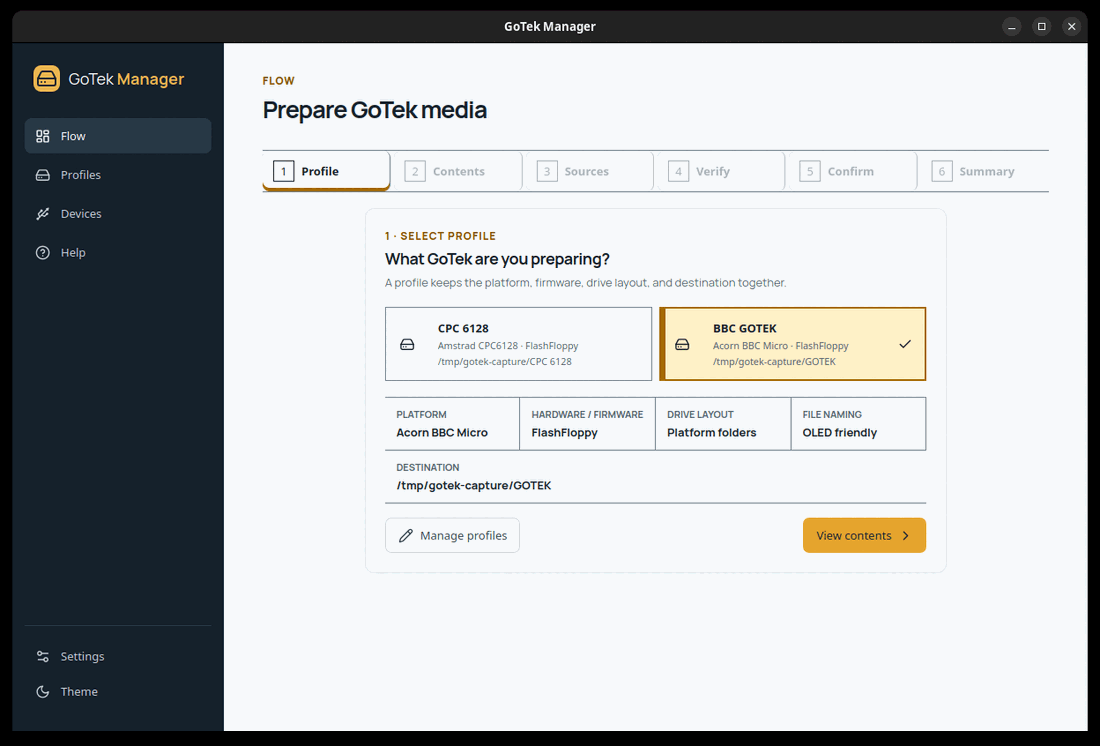
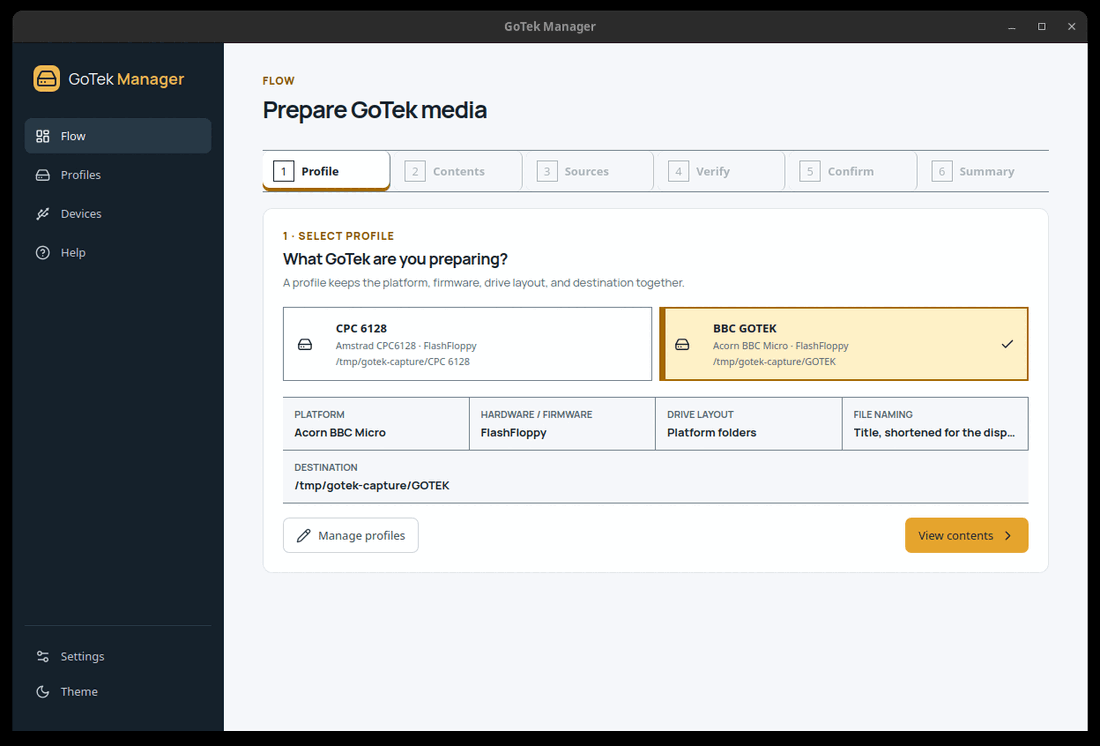
Document the scan, the naming, and re-photograph the screens
The release notes gain a 0.5.0 section covering the scan of every source,
the rules that keep a disc set whole and pick one copy of a title, the
naming change, the categories a collection's own folders now answer, and
the folder names a destination keeps. It says what upgrading does, as
each version's notes do: the library moves to schema 5 in place, and a
profile written by an older version arrives with no folder names of its
own.

The README's naming line said two rules when there are now three, and the
help page described OLED naming as the only alternative to the original
filename. Both now say what the three rules do and what a written name
keeps. Help also gained an entry for filling a stick from a whole
collection, and its answer on categories says that a folder named after a
collection's catalogue reads and that a bracketed demo is a build rather
than a demoscene production.

TODO records the two questions the collection cannot answer for us: a
disc marker on a file that says "Disk 1" and has no siblings, and a title
whose real name carries brackets.

The help screenshots are re-photographed in both palettes, which is what
caught the sidebar actions sitting side by side: the column is too narrow
for two labelled buttons, and "Add location" ran out of its own button
across its neighbour. They are stacked again, which the scrolling column
can now afford, and the scan is "Scan all sources" so the label says what
it does at full width.

diff --git a/src/styles.css b/src/styles.css
@@ -61,7 +61,7 @@ button[aria-pressed="true"]{box-shadow:inset 0 -4px 0 #a46800;background:#fff1c7
 .app.dark button[aria-pressed="true"]{box-shadow:inset 0 -4px 0 #f2b84a;background:#45391f;color:#fff}
 @media(prefers-color-scheme:dark){.app.system-theme button[aria-pressed="true"]{box-shadow:inset 0 -4px 0 #f2b84a;background:#45391f;color:#fff}}
 @media(prefers-reduced-motion:reduce){button:not(:disabled){transition:none}}
-.library-sidebar{overflow:hidden}.library-sidebar .profile{flex:1 1 auto;min-height:0;overflow:auto}.library-sidebar>.button,.library-sidebar>.sidebar-actions{flex:none;margin-top:10px}.library-sidebar>.source-status{flex:none}.sidebar-actions{display:grid;grid-template-columns:1fr 1fr;gap:6px}.sidebar-actions .button{margin-top:0;min-width:0;padding:0 10px;white-space:nowrap}.sidebar-actions .button svg{flex:none}
+.library-sidebar{overflow:hidden}.library-sidebar .profile{flex:1 1 auto;min-height:0;overflow:auto}.library-sidebar>.button{flex:none;margin-top:10px}.library-sidebar>.source-status{flex:none}
 @media(prefers-color-scheme:dark){}
 
 .destination-browser-bar{display:flex;align-items:center;justify-content:space-between;gap:12px;padding:11px 0;border-bottom:1px solid var(--a11y-border)}.destination-browser-bar b,.destination-browser-bar span{display:block}.destination-browser-bar span{max-width:min(680px,70vw);overflow:hidden;text-overflow:ellipsis;white-space:nowrap;color:var(--a11y-muted);font:12px 'DM Mono',monospace}.destination-browser-bar .inline-actions{display:flex;flex:none;gap:5px}.destination-browser tr.clickable{cursor:pointer}.destination-browser tr.clickable td:nth-child(2) b{text-decoration:underline;text-decoration-color:#a46800;text-underline-offset:3px}@media(max-width:600px){.destination-browser-bar{align-items:flex-start}.destination-browser-bar span{max-width:210px}.destination-browser th:nth-child(4),.destination-browser td:nth-child(4),.destination-browser th:nth-child(5),.destination-browser td:nth-child(5){display:none}}

diff --git a/src/pages/flow/LocalLibrary.tsx b/src/pages/flow/LocalLibrary.tsx
@@ -526,25 +526,23 @@ export function LocalLibrary({
             </button>
           )}
         </div>
-        <div className="sidebar-actions">
-          <button className="button" onClick={addLocation}>
-            <FolderOpen />
-            Add location
-          </button>
-          <button
-            className="button secondary"
-            disabled={!sources.length}
-            title={
-              sources.length
-                ? `Scan every source and add everything matching a filter to ${profile.name}`
-                : 'Add a source location first'
-            }
-            onClick={() => setScanning(true)}
-          >
-            <Wand2 />
-            Scan all
-          </button>
-        </div>
+        <button className="button" onClick={addLocation}>
+          <FolderOpen />
+          Add location
+        </button>
+        <button
+          className="button secondary"
+          disabled={!sources.length}
+          title={
+            sources.length
+              ? `Scan every source and add everything matching a filter to ${profile.name}`
+              : 'Add a source location first'
+          }
+          onClick={() => setScanning(true)}
+        >
+          <Wand2 />
+          Scan all sources
+        </button>
         {status && <InlineStatus kind={status.kind}>{status.text}</InlineStatus>}
       </section>
 

diff --git a/src/pages/HelpPage.tsx b/src/pages/HelpPage.tsx
@@ -107,8 +107,9 @@ const GUIDES: Array<{ question: string; answer: ReactNode }> = [
     question: 'Can I fill a stick from my whole collection at once?',
     answer: (
       <>
-        Yes. <b>Add from all sources</b> on the Sources step re-indexes every local
-        source and then offers a filter built from what the collection itself records:
+        Yes. <b>Scan all sources</b>, below <b>Add location</b> on the Sources step,
+        re-indexes every local source and then offers a filter built from what the collection itself
+        records:
         language, unfinished builds such as prototypes and playable demos, dumps marked
         cracked or bad, how the software was published, region, and category. Every
         choice shows how many titles carry it, so it is made against the library in front

diff --git a/src/domain/catalog.ts b/src/domain/catalog.ts
@@ -46,7 +46,7 @@ export type FirmwareProfile = {
   id: string
   name: string
   family: string
-  /** Characters the drive's display can show, used for OLED naming. */
+  /** Characters the drive's display can show, used to shorten written names. */
   oledLength: number
   /** Formats the firmware loads directly from the USB stick. */
   formats: string[]

diff --git a/.github/RELEASE_NOTES.md b/.github/RELEASE_NOTES.md
@@ -3,6 +3,57 @@ GoTek floppy emulator: it indexes your library, works out which titles a given
 machine and firmware can actually load, and writes them to a stick with the
 drive's own configuration alongside them.
 
+## What is new in 0.5.0
+
+**A stick can be filled from a whole collection in one pass.** **Scan all sources**,
+below **Add location** on the Sources step, re-indexes every local source and then offers a
+filter built from what the collection itself records: language, unfinished builds such
+as prototypes and playable demos, dumps marked cracked, alternate or bad, how the
+software was published, region, and category. Every choice says how many titles carry
+it, so it is made against the library in front of you rather than in the abstract.
+Nothing is staged until the preview has said how many titles it would add, which folder
+on the drive each would land in, how much room they need, and what was left out and why.
+
+**A multi-disc set is only useful whole**, so discs are chosen together rather than
+separately. A set is taken from one release where one release holds all of it, filled
+disc by disc and reported as mixed where none does, and left out and named where a disc
+is missing altogether — two thirds of a game is worse than none of it. And where several
+copies of one title survive the filter, one is chosen: the original first, then the
+fixed dump, then the alternates, and so on down.
+
+**A file is named for what it is.** Everything a collection records about a release —
+the year, the publisher, the region, the language, the version, the dump flags — says
+which copy this is, not what the software is, and none of it fits a two-line display.
+`Dungeon Master (1987)(FTL)(GB)(Disk 1 of 2)[cr QTX].adf` is now written as
+`Dungeon Master D1.adf`, and a one-disc game gets no disc marker at all. The library
+keeps the original name either way. A folder scan, a bulk add, an online download and a
+title staged by hand all go through the same rule, so a stick is never a mixture of two
+conventions. Naming for a small panel is now a separate choice from stripping the tags,
+and **Original filename** is still there for anyone who wants their collection's names
+verbatim. Existing profiles keep whatever they were set to; new ones start on
+**Title only**.
+
+Reducing names this way is also what makes two titles collide — two editions of Elite
+both become `Elite.adf` — so where that happens the later one keeps the smallest thing
+the collection recorded that tells them apart, rather than the write being refused.
+
+**Categories read more of the evidence.** A folder named after a collection's own
+catalogue now reads, which had left whole trees such as
+`Commodore Amiga - Games - [ADF]` unsorted. A bracketed `(demo)` is a playable demo of a
+commercial game rather than a demoscene production, so game demos no longer file
+themselves with the demoscene. An archive's own name says what its contents are and what
+they are called, which is all a single-title ZIP holding `disk1.adf` has to go on.
+
+**A destination that already sorts itself keeps its own folder names.** A stick holding
+`Applications/` is offered them rather than having `Apps/` written beside it, so titles
+fill the folders already there instead of a second set appearing next to them. It is
+offered on the Contents step and confirmed on the profile, never applied silently.
+
+**Upgrading.** The stored library moves to schema 5 the first time this version opens
+it, in place, to carry the folder names a destination uses. A profile written by an
+older version arrives with none of its own and uses the standard names. An older version
+opening the library afterwards will say so and stop rather than quietly downgrade.
+
 ## What is new in 0.4.0
 
 **Multi-disk sets write properly.** Shortening a name for the drive's display

diff --git a/README.md b/README.md
@@ -50,7 +50,8 @@ profile's exact name.
   a bulk add and an online download all go through the same rule, so a stick is
   never a mixture of two conventions. Naming for a small panel is a separate
   choice, and the disc marker is never what gives up the room.
-- Filling a stick from a whole collection in one pass, with a filter built from
+- Filling a stick from a whole collection in one pass — **Scan all sources**,
+  below **Add location** on the Sources step — with a filter built from
   what the collection itself records — language, prototypes and playable demos,
   dumps marked cracked, alternate or bad, how the software was published, region,
   and category — each choice showing how many titles carry it. A multi-disc set is
@@ -116,8 +117,10 @@ profile's exact name.
 - Guarded device provisioning: the media is built as an image first, then written
   in one pass and read back to verify.
 - FAT image creation, population, and unpacking, for partitioned and bare layouts.
-- Custom folder templates, per-title display names, and optional checksum
-  verification on every copy.
+- Three naming rules — the title alone, the title shortened to the drive's
+  display width, or the collection's original filename — plus custom folder
+  templates, per-title display names, and optional checksum verification on
+  every copy.
 - A managed download cache with size limits, least-recently-used eviction, and
   digests re-checked on reuse.
 - A transactional SQLite library, so a few thousand titles is no longer near a

diff --git a/TODO.md b/TODO.md
@@ -24,6 +24,23 @@ newest wry still requires them. When Tauri moves to the GTK4/webkitgtk-6
 bindings, delete the entry and let the audit job say whether it was still
 needed. That file explains the reasoning; this is only the reminder to look.
 
+## Settle two naming questions the collection cannot answer for us
+
+Reducing a written name to the title alone left two cases decided by the letter
+of the rule rather than by what somebody would want, and both are a line of
+code either way.
+
+A file named `Elite (Disk 1).ssd` that has no siblings and never says "of 2" is
+written `Elite.ssd`, because as far as the library knows the set is one disc.
+That is right until the second disc is added in a later pass, at which point the
+set becomes `Elite D1.adf` and `Elite D2.adf` and the file written first is
+orphaned beside them. Treating any stated disc number as evidence of a set would
+fix that at the cost of a redundant `D1` on genuinely single-disc releases.
+
+Stripping tags takes every bracketed group, so a title whose real name carries
+one — a subtitle in brackets, say — loses it. `ReleaseTags.unknown` keeps what
+was dropped, so the interface could offer it back, but nothing does that yet.
+
 ## Re-run the help screenshots when a screen changes
 
 `npm run screenshots` drives the real application against fixture folders and
